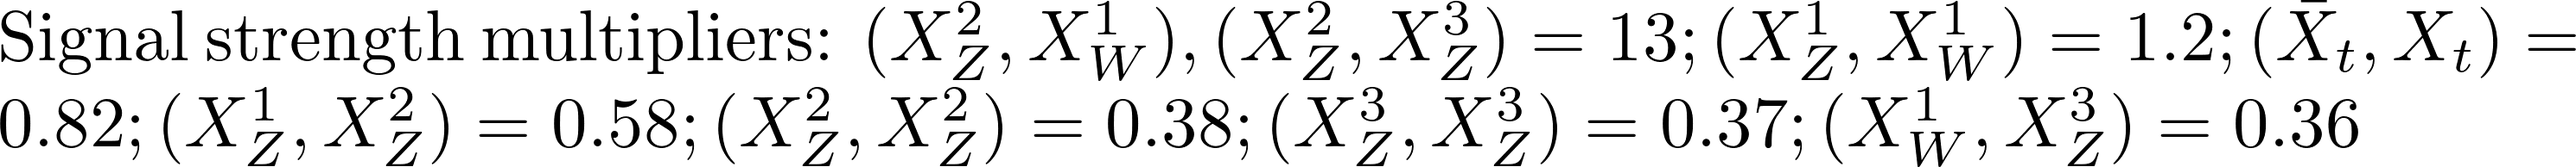
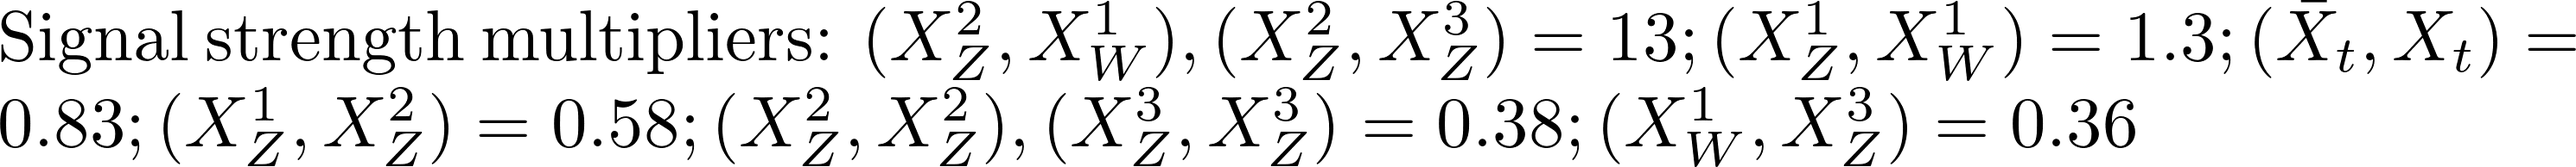
automated update by plotHiscore.py to rundir3_310:     K=28.407 TL=36.46 walkerid=uphi

diff --git a/protomodels/rundir3_310/index.html b/protomodels/rundir3_310/index.html
@@ -1,24 +1,24 @@
 <html>
 <body>
 <center>
-<table><td><h1>Current best protomodel: <i>K</i>=28.13, <i>TL</i>=36.18</h1><td><img height=60px src=https://smodels.github.io//protomodels/logos/protomodel_lego.png></table>
+<table><td><h1>Current best protomodel: <i>K</i>=28.41, <i>TL</i>=36.46</h1><td><img height=60px src=https://smodels.github.io//protomodels/logos/protomodel_lego.png></table>
 </center>
-<b><a href=./hiscore.slha>ProtoModel</a> <a href=./pmodel.dict>(dict)</a> produced with <a href=https://smodels.github.io//docs/Validation310>database v3.1.0</a>, combination strategy <a href=./matrix.png>aggressive</a> in walker uphi step 525.</b> <br>
+<b><a href=./hiscore.slha>ProtoModel</a> <a href=./pmodel.dict>(dict)</a> produced with <a href=https://smodels.github.io//docs/Validation310>database v3.1.0</a>, combination strategy <a href=./matrix.png>aggressive</a> in walker uphi step 535.</b> <br>
 <table width=80%>
 <tr><td>
 <br><b>Critics:</b> passed both critics<br>
-<br><b>LLHD Critic:</b> CMS-EXO-20-004:combined, ATLAS-EXOT-2018-06:EM8, CMS-SUS-20-004:combined, ATLAS-SUSY-2018-12:SRATT, ATLAS-SUSY-2016-16:tN_high:: <span style='color: darkgreen;'>robs=1.0, rexp=3.42</span><br>
-<br><b>15 predictions available. Highest r values are:</b><br><ul>
-<li><a href=https://atlas.web.cern.ch/Atlas/GROUPS/PHYSICS/PAPERS/EXOT-2018-06/>ATLAS-EXOT-2018-06</a>:EM8:TChiISR,TChiZISRqq r=1.52, r<sub>exp</sub>=1.65<br>
-<li><a href=http://cms-results.web.cern.ch/cms-results/public-results/publications/SUS-20-002/index.html>CMS-SUS-20-002</a>:ul:T2tt r=0.94, r<sub>exp</sub>=1.03<br>
-<li><a href=http://cms-results.web.cern.ch/cms-results/public-results/publications/SUS-19-010/index.html>CMS-SUS-19-010</a>:ul:T2tt r=0.88, r<sub>exp</sub>=0.76<br>
-<li><a href=https://atlas.web.cern.ch/Atlas/GROUPS/PHYSICS/PAPERS/SUSY-2018-12/>ATLAS-SUSY-2018-12</a>:ul:T2tt r=0.65, r<sub>exp</sub>=0.65<br>
+<br><b>LLHD Critic:</b> CMS-EXO-20-004:combined, ATLAS-EXOT-2018-06:EM8, CMS-SUS-20-004:combined, ATLAS-SUSY-2018-12:SRATT, ATLAS-SUSY-2016-16:tN_high:: <span style='color: darkgreen;'>robs=0.99, rexp=3.41</span><br>
+<br><b>14 predictions available. Highest r values are:</b><br><ul>
+<li><a href=https://atlas.web.cern.ch/Atlas/GROUPS/PHYSICS/PAPERS/EXOT-2018-06/>ATLAS-EXOT-2018-06</a>:EM8:TChiZISRqq,TChiISR r=1.52, r<sub>exp</sub>=1.64<br>
+<li><a href=http://cms-results.web.cern.ch/cms-results/public-results/publications/SUS-20-002/index.html>CMS-SUS-20-002</a>:ul:T2tt r=0.97, r<sub>exp</sub>=1.05<br>
+<li><a href=http://cms-results.web.cern.ch/cms-results/public-results/publications/SUS-19-010/index.html>CMS-SUS-19-010</a>:ul:T2tt r=0.90, r<sub>exp</sub>=0.78<br>
+<li><a href=https://atlas.web.cern.ch/Atlas/GROUPS/PHYSICS/PAPERS/SUSY-2018-12/>ATLAS-SUSY-2018-12</a>:ul:T2tt r=0.67, r<sub>exp</sub>=0.66<br>
 </ul>
-<td><img width=600px src=./texdoc.png?1759928830>
-<br><span style='font-size: smaller; color: darkred;'>Last updated: Wed Oct  8 15:07:10 2025</span>
+<td><img width=600px src=./texdoc.png?1759930222>
+<br><span style='font-size: smaller; color: darkred;'>Last updated: Wed Oct  8 15:30:22 2025</span>
 </table><table style="width:80%">
-<td width=45%><img height=580px src=./ruler.png?1759928830><td width=55%><img height=220px src=./decays.png?1759928830>
-<font size=-3><iframe type="text/html" height="350px" width="100%" frameborder="0" src="./rawnumbers.html?1759928830"></iframe></font>
+<td width=45%><img height=580px src=./ruler.png?1759930222><td width=55%><img height=220px src=./decays.png?1759930222>
+<font size=-3><iframe type="text/html" height="350px" width="100%" frameborder="0" src="./rawnumbers.html?1759930222"></iframe></font>
 </table>
 </body>
 </html>

diff --git a/protomodels/rundir3_310/rawnumbers.html b/protomodels/rundir3_310/rawnumbers.html
@@ -3,12 +3,11 @@
 </tr>
 <tr><td><a href=http://cms-results.web.cern.ch/cms-results/public-results/publications/EXO-20-004/>CMS-EXO-20-004</a></td><td>comb</td> <td>-</td><td>TChiISR, TChiZISRqq</td><td> 2e+02 fb </td><td> 1e+02 fb</td><td style="text-align:right">4.6 &sigma;</td><td style="text-align:right">X<sup>1</sup><sub>W</sub>, X<sup>1</sup><sub>Z</sub>, X<sup>2</sup><sub>Z</sub></td></tr>
 <tr><td><a href=https://atlas.web.cern.ch/Atlas/GROUPS/PHYSICS/PAPERS/EXOT-2018-06/>ATLAS-EXOT-2018-06</a></td><td>em</td> <td>EM10</td><td>TChiISR, TChiZISRqq</td><td>413</td><td>359.00 +/- 10.00</td><td style="text-align:right">2.5 &sigma;</td><td style="text-align:right">X<sup>1</sup><sub>W</sub>, X<sup>1</sup><sub>Z</sub>, X<sup>2</sup><sub>Z</sub></td></tr>
-<tr><td><a href=http://cms-results.web.cern.ch/cms-results/public-results/publications/SUS-20-004/>CMS-SUS-20-004</a></td><td>comb</td> <td>-</td><td>TChiHH</td><td> 0.3 fb </td><td> 0.2 fb</td><td style="text-align:right">2.1 &sigma;</td><td style="text-align:right">X<sup>3</sup><sub>Z</sub>, X<sup>2</sup><sub>Z</sub></td></tr>
+<tr><td><a href=http://cms-results.web.cern.ch/cms-results/public-results/publications/SUS-20-004/>CMS-SUS-20-004</a></td><td>comb</td> <td>-</td><td>TChiHH</td><td> 0.3 fb </td><td> 0.2 fb</td><td style="text-align:right">2.2 &sigma;</td><td style="text-align:right">X<sup>3</sup><sub>Z</sub>, X<sup>2</sup><sub>Z</sub></td></tr>
 <tr><td><a href=https://atlas.web.cern.ch/Atlas/GROUPS/PHYSICS/PAPERS/SUSY-2016-16/>ATLAS-SUSY-2016-16</a></td><td>em</td> <td>tN_high</td><td>T2tt</td><td>8</td><td>3.80 +/- 1.00</td><td style="text-align:right">1.7 &sigma;</td><td style="text-align:right">X<sup>1</sup><sub>Z</sub>, X<sub>t</sub>, X<sup>2</sup><sub>Z</sub></td></tr>
 <tr><td><a href=https://atlas.web.cern.ch/Atlas/GROUPS/PHYSICS/PAPERS/SUSY-2018-08/>ATLAS-SUSY-2018-08</a></td><td>em</td> <td>SRSF140</td><td>T2tt</td><td>9</td><td>5.10 +/- 0.90</td><td style="text-align:right">1.5 &sigma;</td><td style="text-align:right">X<sup>1</sup><sub>Z</sub>, X<sub>t</sub>, X<sup>2</sup><sub>Z</sub></td></tr>
 <tr><td><a href=https://twiki.cern.ch/twiki/bin/view/CMSPublic/PhysicsResultsSUS13012>CMS-SUS-13-012</a></td><td>em</td> <td>3NJet6_1000HT12 ...</td><td>TChiZZ</td><td>32</td><td>22.80 +/- 5.20</td><td style="text-align:right">1.3 &sigma;</td><td style="text-align:right">X<sup>3</sup><sub>Z</sub>, X<sup>2</sup><sub>Z</sub></td></tr>
 <tr><td><a href=https://atlas.web.cern.ch/Atlas/GROUPS/PHYSICS/PAPERS/SUSY-2018-12/>ATLAS-SUSY-2018-12</a></td><td>em</td> <td>SRATW</td><td>T2tt</td><td>8</td><td>5.60 +/- 0.70</td><td style="text-align:right">1.0 &sigma;</td><td style="text-align:right">X<sup>1</sup><sub>Z</sub>, X<sub>t</sub>, X<sup>2</sup><sub>Z</sub></td></tr>
-<tr><td><a href=https://atlas.web.cern.ch/Atlas/GROUPS/PHYSICS/PAPERS/SUSY-2018-41/>ATLAS-SUSY-2018-41</a></td><td>comb</td> <td>-</td><td>TChiHH, TChiZH, TChiZZ</td><td> 0.02 fb </td><td> 0.03 fb</td><td style="text-align:right">0.4 &sigma;</td><td style="text-align:right">X<sup>3</sup><sub>Z</sub>, X<sup>2</sup><sub>Z</sub></td></tr>
 </table>
 <table style='color:grey'>
 <tr><th>Not in Best Combo</th><th>Type</th><th>Dataset</th><th>Topos</th><th>Observed</th><th>Expected</th><th>Approx &sigma;</th><th>Particles</th><tr><td><a href=http://cms-results.web.cern.ch/cms-results/public-results/publications/SUS-16-033/index.html>CMS-SUS-16-033</a></td><td>em</td> <td>SR2_Njet3_Nb0_H ...</td><td>T2tt</td><td>71</td><td>55.20 +/- 11.50</td><td style="text-align:right">1.1 &sigma;</td><td style="text-align:right">X<sup>1</sup><sub>Z</sub>, X<sub>t</sub>, X<sup>2</sup><sub>Z</sub></td></tr>
